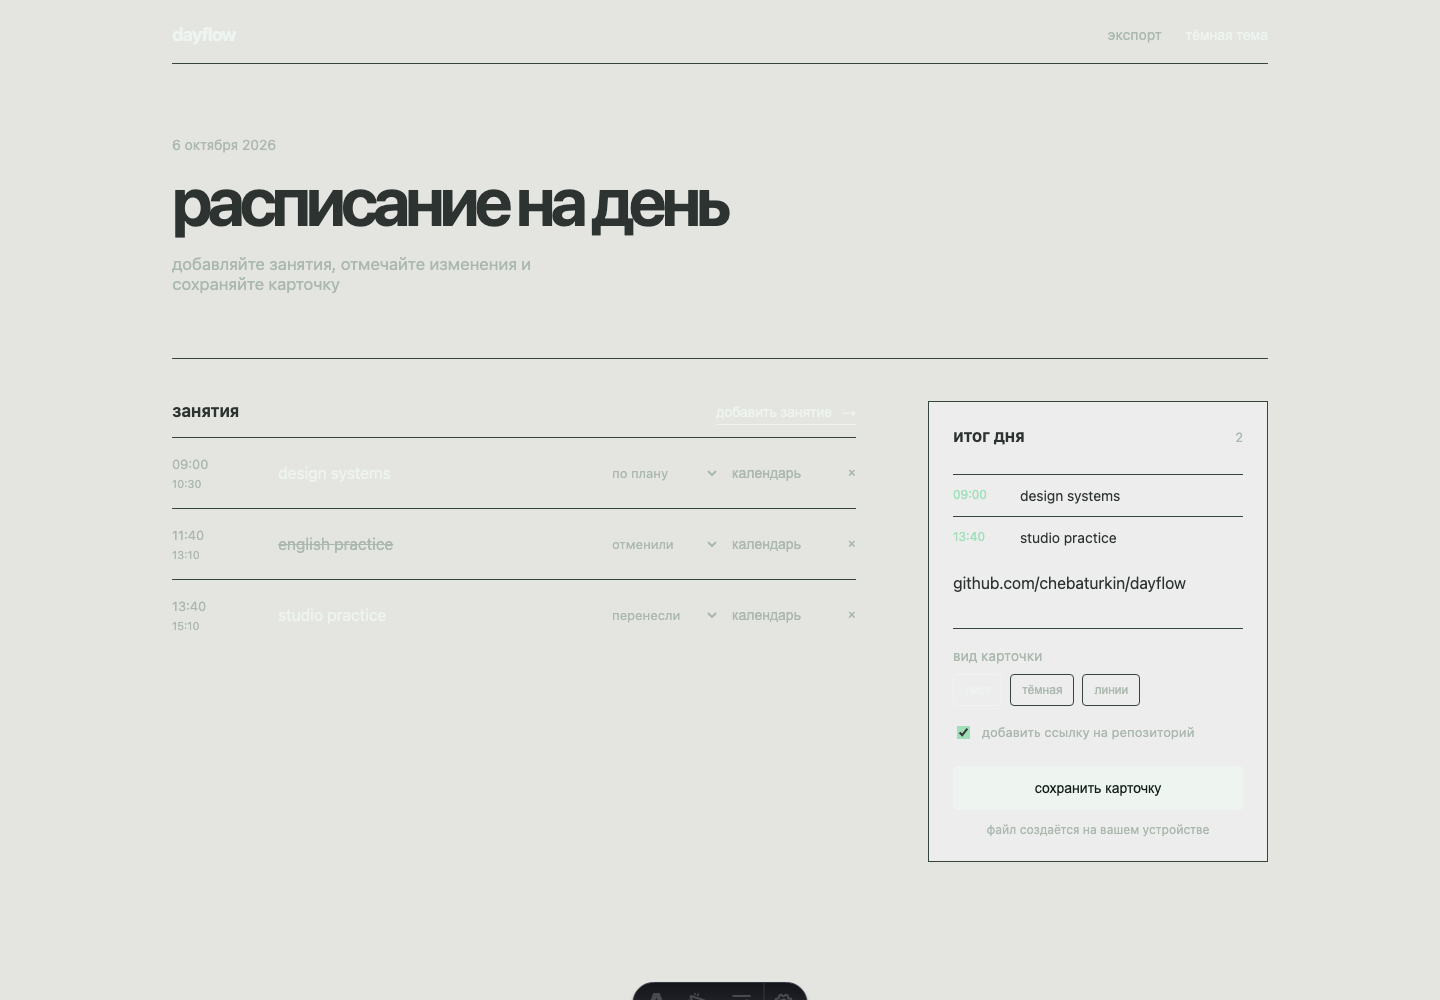
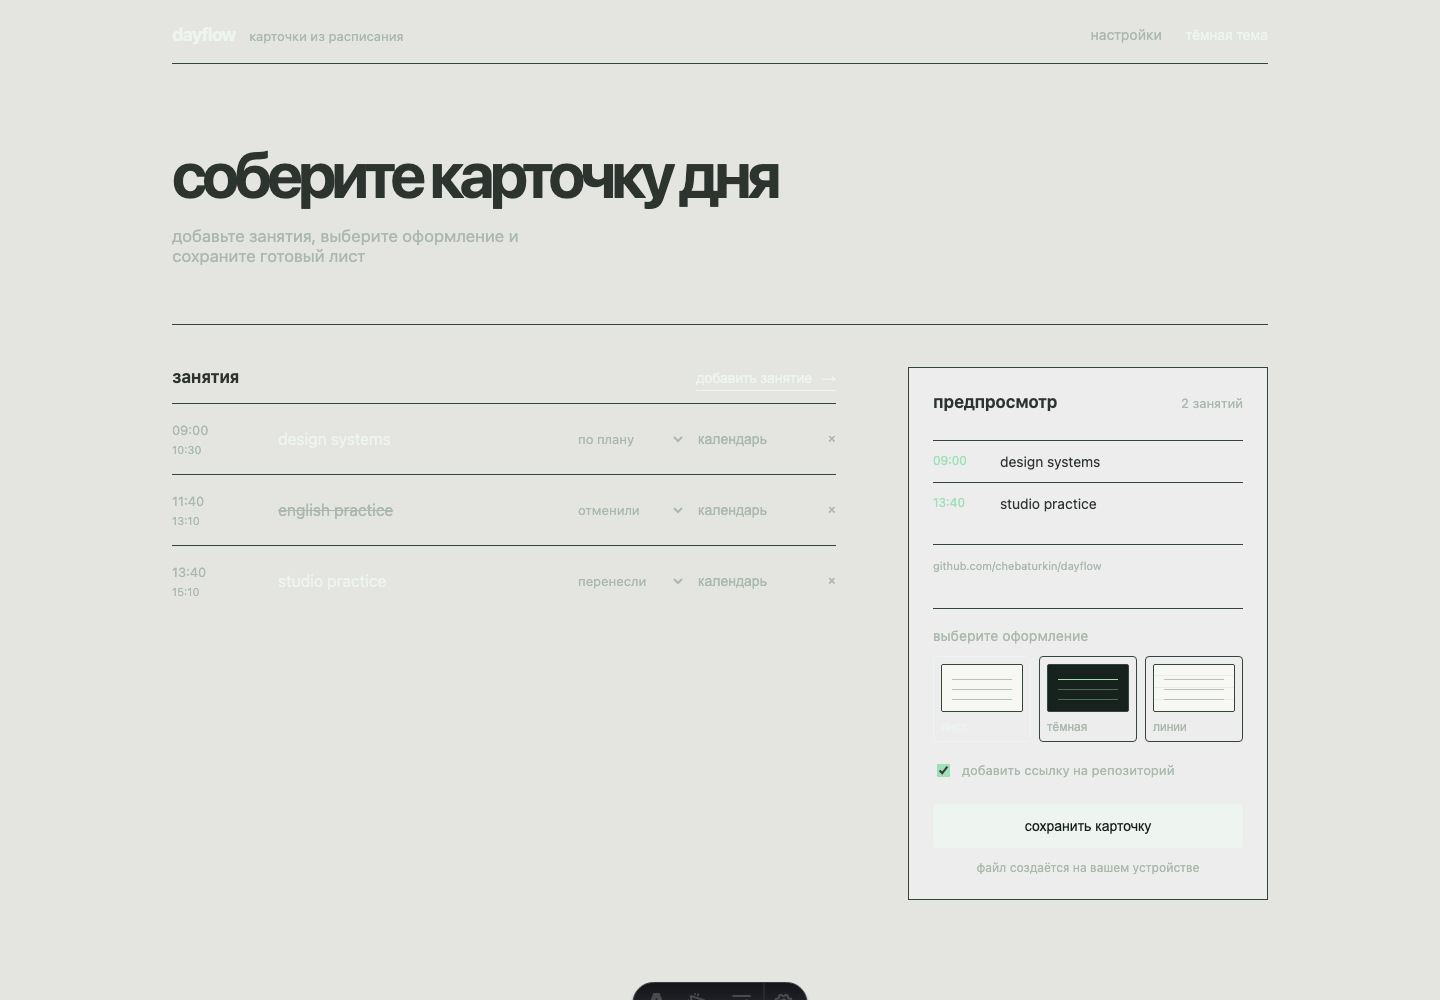
make dayflow a card editor

diff --git a/src/styles/global.css b/src/styles/global.css
@@ -1,1 +1,1 @@
-:root{--bg:#f7f7f3;--surface:#fff;--ink:#1b211e;--muted:#6d756f;--line:#dfe3de;--accent:#147a50;font-family:ui-sans-serif,system-ui,-apple-system,sans-serif}.dark{--bg:#132019;--surface:#18261e;--ink:#eef4ef;--muted:#aab8ae;--line:#34463a;--accent:#9fe0b9}*{box-sizing:border-box}html{scroll-behavior:smooth}body{margin:0;background:var(--bg);color:var(--ink);transition:background .18s ease,color .18s ease}.shell{max-width:1160px;margin:auto;padding:24px 32px 72px}.topbar{display:flex;align-items:center;justify-content:space-between;border-bottom:1px solid var(--line);padding-bottom:18px}.wordmark{color:var(--ink);font-size:18px;font-weight:700;letter-spacing:-.04em;text-decoration:none}.topbar nav{display:flex;align-items:center;gap:24px}.topbar a:not(.wordmark),.topbar button,.text-action,.ics,.remove{border:0;background:none;color:var(--muted);padding:0;font-size:14px;text-decoration:none}.topbar button{cursor:pointer}.topbar a:hover,.topbar button:hover,.text-action:hover,.ics:hover,.remove:hover{color:var(--ink)}.intro{display:flex;justify-content:space-between;align-items:end;padding:72px 0 64px;border-bottom:1px solid var(--line)}.date-context,.kicker,.option-label{font-size:14px;color:var(--muted);margin:0 0 14px}.intro h1{font-size:clamp(42px,6vw,68px);line-height:.98;letter-spacing:-.075em;margin:0 0 20px;font-weight:650}.lede{color:var(--muted);font-size:17px;margin:0;max-width:420px}.layout{display:grid;grid-template-columns:minmax(0,1fr) 340px;gap:72px;padding-top:42px}.section-head,.export-head{display:flex;justify-content:space-between;align-items:baseline;margin-bottom:12px}.section-head h2,.export-head h2{font-size:17px;font-weight:650;margin:0}.text-action{border-bottom:1px solid var(--ink);color:var(--ink);padding-bottom:4px;cursor:pointer}.text-action span{margin-left:6px}.lesson{display:grid;grid-template-columns:92px minmax(0,1fr) 112px 64px 48px;gap:12px;align-items:center;border-top:1px solid var(--line);padding:18px 0;animation:enter .16s ease both}.lesson time{font-size:13px;color:var(--muted)}.lesson time small{display:block;font-size:11px;margin-top:5px}.lesson input,.lesson select{width:100%;min-width:0;border:0;background:transparent;color:var(--ink);font:inherit}.lesson input{font-size:16px}.lesson select{font-size:13px;color:var(--muted);cursor:pointer}.lesson.cancelled input{text-decoration:line-through;color:var(--muted)}.ics{text-align:left;cursor:pointer}.remove{cursor:pointer;text-align:right}.export{background:var(--surface);border:1px solid var(--line);padding:24px;align-self:start;transition:background .18s ease}.export[data-style=dark]{background:#17221e;color:#f5f5ef}.export[data-style=lines]{background:repeating-linear-gradient(0deg,var(--surface),var(--surface) 39px,var(--line) 40px)}.count{font-size:13px;color:var(--muted)}.card-list{min-height:112px;margin:28px 0 36px}.card-line{display:grid;grid-template-columns:55px 1fr;gap:12px;padding:12px 0;border-top:1px solid var(--line);font-size:14px}.card-line time{color:var(--accent);font-size:12px}.empty{color:var(--muted);font-size:14px}.export-options{border-top:1px solid var(--line);padding-top:18px}.option-label{margin-bottom:10px}.styles{display:flex;gap:8px;margin-bottom:18px}.style{background:transparent;border:1px solid var(--line);border-radius:4px;padding:8px 11px;color:var(--muted);cursor:pointer;font-size:12px}.style.active{border-color:var(--ink);color:var(--ink)}.check{display:flex;gap:9px;align-items:flex-start;color:var(--muted);font-size:13px;line-height:1.35;cursor:pointer}.check input{accent-color:var(--accent);margin-top:2px}.primary{width:100%;height:44px;background:var(--ink);border:0;border-radius:4px;color:var(--bg);margin-top:24px;cursor:pointer;font-size:14px}.primary:hover{background:var(--accent)}.hint{font-size:12px;color:var(--muted);text-align:center;margin:12px 0 0}@keyframes enter{from{opacity:0;transform:translateY(5px)}to{opacity:1;transform:none}}@media(max-width:760px){.shell{padding:18px 20px 48px}.topbar nav{gap:14px}.intro{padding:54px 0 42px}.intro h1{font-size:44px}.layout{grid-template-columns:1fr;gap:42px;padding-top:30px}.lesson{grid-template-columns:62px minmax(0,1fr) 52px 34px;gap:8px}.lesson select{grid-column:2}.ics{grid-column:3;grid-row:1}.remove{grid-column:4;grid-row:1}.export{padding:20px}.text-action{font-size:13px}}@media(prefers-reduced-motion:reduce){*,*:before,*:after{animation-duration:.01ms!important;scroll-behavior:auto!important;transition-duration:.01ms!important}}
+:root{--bg:#f7f7f3;--surface:#fff;--ink:#1b211e;--muted:#6d756f;--line:#dfe3de;--accent:#147a50;font-family:ui-sans-serif,system-ui,-apple-system,sans-serif}.dark{--bg:#132019;--surface:#18261e;--ink:#eef4ef;--muted:#aab8ae;--line:#34463a;--accent:#9fe0b9}*{box-sizing:border-box}html{scroll-behavior:smooth}body{margin:0;background:var(--bg);color:var(--ink);transition:background .18s ease,color .18s ease}.shell{max-width:1160px;margin:auto;padding:24px 32px 72px}.topbar{display:flex;align-items:center;justify-content:space-between;border-bottom:1px solid var(--line);padding-bottom:18px}.brand{display:flex;align-items:baseline;gap:14px}.wordmark{color:var(--ink);font-size:18px;font-weight:700;letter-spacing:-.04em;text-decoration:none}.brand span{color:var(--muted);font-size:13px}.topbar nav{display:flex;align-items:center;gap:24px}.topbar a:not(.wordmark),.topbar button,.text-action,.ics,.remove{border:0;background:none;color:var(--muted);padding:0;font-size:14px;text-decoration:none}.topbar button{cursor:pointer}.topbar a:hover,.topbar button:hover,.text-action:hover,.ics:hover,.remove:hover{color:var(--ink)}.intro{padding:78px 0 58px;border-bottom:1px solid var(--line)}.intro h1{font-size:clamp(42px,5.5vw,64px);line-height:1;letter-spacing:-.075em;margin:0 0 20px;font-weight:650}.lede{color:var(--muted);font-size:17px;margin:0;max-width:420px}.layout{display:grid;grid-template-columns:minmax(0,1fr) 360px;gap:72px;padding-top:42px}.section-head,.export-head{display:flex;justify-content:space-between;align-items:baseline;margin-bottom:12px}.section-head h2,.export-head h2{font-size:17px;font-weight:650;margin:0}.text-action{border-bottom:1px solid var(--ink);color:var(--ink);padding-bottom:4px;cursor:pointer}.text-action span{margin-left:6px}.lesson{display:grid;grid-template-columns:92px minmax(0,1fr) 112px 78px 48px;gap:12px;align-items:center;border-top:1px solid var(--line);padding:18px 0;animation:enter .16s ease both}.lesson time{font-size:13px;color:var(--muted)}.lesson time small{display:block;font-size:11px;margin-top:5px}.lesson input,.lesson select{width:100%;min-width:0;border:0;background:transparent;color:var(--ink);font:inherit}.lesson input{font-size:16px}.lesson select{font-size:13px;color:var(--muted);cursor:pointer}.lesson.cancelled input{text-decoration:line-through;color:var(--muted)}.ics{text-align:left;cursor:pointer}.remove{cursor:pointer;text-align:right}.export{background:var(--surface);border:1px solid var(--line);padding:24px;align-self:start;transition:background .18s ease}.export[data-style=dark]{background:#17221e;color:#f5f5ef}.export[data-style=lines]{background:repeating-linear-gradient(0deg,var(--surface),var(--surface) 39px,var(--line) 40px)}.count{font-size:13px;color:var(--muted)}.card-list{min-height:112px;margin:28px 0 36px}.card-line{display:grid;grid-template-columns:55px 1fr;gap:12px;padding:12px 0;border-top:1px solid var(--line);font-size:14px}.card-line time{color:var(--accent);font-size:12px}.repo-link{border-top:1px solid var(--line);padding-top:14px;margin-top:20px;color:var(--muted);font-size:11px}.empty{color:var(--muted);font-size:14px}.export-options{border-top:1px solid var(--line);padding-top:18px}.option-label{font-size:14px;color:var(--muted);margin:0 0 12px}.styles{display:grid;grid-template-columns:repeat(3,1fr);gap:8px;margin-bottom:20px}.style{display:flex;flex-direction:column;gap:8px;text-align:left;background:transparent;border:1px solid var(--line);border-radius:4px;padding:7px;color:var(--muted);cursor:pointer;font-size:12px}.style.active{border-color:var(--ink);color:var(--ink)}.mini-card{display:block;width:100%;height:48px;border:1px solid var(--line);border-radius:2px;background:#f7f7f3;position:relative;overflow:hidden}.mini-card:after{content:'';position:absolute;left:10px;right:10px;top:14px;height:1px;background:#b7c1b9;box-shadow:0 10px #b7c1b9,0 20px #b7c1b9}.mini-dark{background:#17221e}.mini-dark:after{background:#9fe0b9;box-shadow:0 10px #516d5a,0 20px #516d5a}.mini-lines{background:repeating-linear-gradient(0deg,#f7f7f3,#f7f7f3 11px,#dfe3de 12px)}.check{display:flex;gap:9px;align-items:flex-start;color:var(--muted);font-size:13px;line-height:1.35;cursor:pointer}.check input{accent-color:var(--accent);margin-top:2px}.primary{width:100%;height:44px;background:var(--ink);border:0;border-radius:4px;color:var(--bg);margin-top:24px;cursor:pointer;font-size:14px}.primary:hover{background:var(--accent)}.hint{font-size:12px;color:var(--muted);text-align:center;margin:12px 0 0}@keyframes enter{from{opacity:0;transform:translateY(5px)}to{opacity:1;transform:none}}@media(max-width:760px){.shell{padding:18px 20px 48px}.brand{gap:10px}.brand span{font-size:11px}.topbar nav{gap:14px}.intro{padding:56px 0 42px}.intro h1{font-size:44px}.layout{grid-template-columns:1fr;gap:42px;padding-top:30px}.lesson{grid-template-columns:62px minmax(0,1fr) 78px 34px;gap:8px}.lesson select{grid-column:2}.ics{grid-column:3;grid-row:1}.remove{grid-column:4;grid-row:1}.export{padding:20px}}@media(prefers-reduced-motion:reduce){*,*:before,*:after{animation-duration:.01ms!important;scroll-behavior:auto!important;transition-duration:.01ms!important}}
